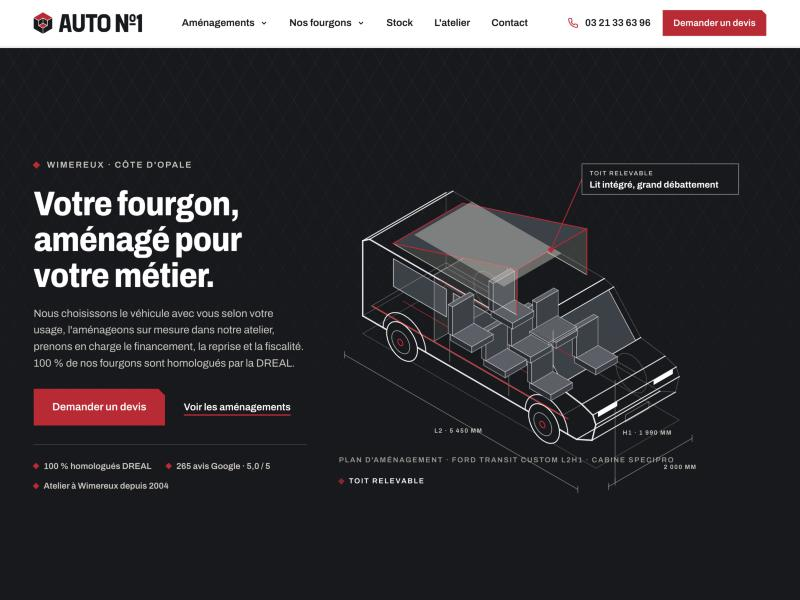
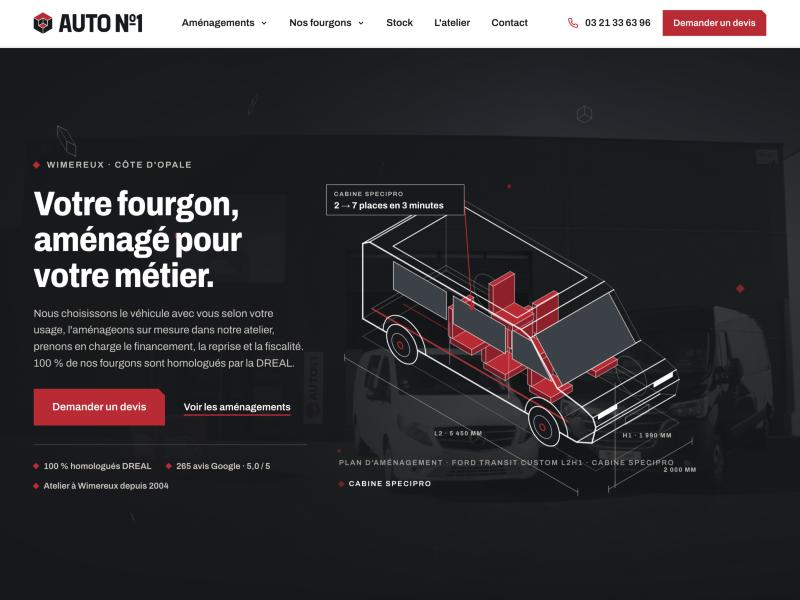
Hero : photo de fond sous voile sombre et éléments vectoriels flottants
- Photo de la façade du showroom en fond, désaturée, avec lent zoom
  (Ken Burns) et voile anthracite dégradé pour la lisibilité du texte
  et du plan
- Couche d'éléments flottants : cubes isométriques filaires en rotation
  3D, losanges rouges, repères, animés en continu et en parallaxe à la
  souris avec le plan et la photo ; cinq éléments conservés en mobile
- Léger flottement du plan ; mouvements désactivés si l'utilisateur
  préfère les animations réduites

diff --git a/site/index.html b/site/index.html
@@ -19,7 +19,7 @@
 <link rel="apple-touch-icon" href="assets/brand/apple-touch-icon.png">
 <link rel="preload" href="assets/fonts/Archivo-var-normal-latin.woff2" as="font" type="font/woff2" crossorigin>
 <link rel="stylesheet" href="assets/fonts/fonts.css?v=d4d25ccd">
-<link rel="stylesheet" href="assets/css/main.css?v=c59105d9">
+<link rel="stylesheet" href="assets/css/main.css?v=00c5aabd">
 <script type="application/ld+json">
 {
   "@context": "https://schema.org",
@@ -114,7 +114,22 @@
 
 <!-- ===================== HERO ===================== -->
 <section class="hero hero--plan" id="top">
-  <div class="trame"></div>
+  <div class="hero__bg" aria-hidden="true"><img src="assets/img/showroom-facade.jpg" alt="" width="1622" height="1080" fetchpriority="high"></div>
+  <div class="hero__shade" aria-hidden="true"></div>
+  <div class="hero__float" id="hero-float" aria-hidden="true">
+    <span class="flt" style="--s:64px;--o:0.28;left:6%;top:14%;--d:13s;--r:34s;--delay:0s"><svg viewBox="0 0 48 48" fill="none" stroke="currentColor" stroke-width="1.3" stroke-linejoin="miter"><path d="M24 4 L41 14 L41 34 L24 44 L7 34 L7 14 Z M7 14 L24 24 L41 14 M24 24 V44"/></svg></span>
+    <span class="flt" style="--s:38px;--o:0.22;left:30%;top:8%;--d:11s;--r:28s;--delay:-4s"><svg viewBox="0 0 48 48" fill="none" stroke="currentColor" stroke-width="1.3" stroke-linejoin="miter"><path d="M24 4 L41 14 L41 34 L24 44 L7 34 L7 14 Z M7 14 L24 24 L41 14 M24 24 V44"/></svg></span>
+    <span class="flt" style="--s:90px;--o:0.16;left:84%;top:70%;--d:16s;--r:46s;--delay:-7s"><svg viewBox="0 0 48 48" fill="none" stroke="currentColor" stroke-width="1.3" stroke-linejoin="miter"><path d="M24 4 L41 14 L41 34 L24 44 L7 34 L7 14 Z M7 14 L24 24 L41 14 M24 24 V44"/></svg></span>
+    <span class="flt" style="--s:46px;--o:0.26;left:52%;top:88%;--d:12s;--r:31s;--delay:-2s"><svg viewBox="0 0 48 48" fill="none" stroke="currentColor" stroke-width="1.3" stroke-linejoin="miter"><path d="M24 4 L41 14 L41 34 L24 44 L7 34 L7 14 Z M7 14 L24 24 L41 14 M24 24 V44"/></svg></span>
+    <span class="flt" style="--s:30px;--o:0.2;left:70%;top:10%;--d:10s;--r:24s;--delay:-6s"><svg viewBox="0 0 48 48" fill="none" stroke="currentColor" stroke-width="1.3" stroke-linejoin="miter"><path d="M24 4 L41 14 L41 34 L24 44 L7 34 L7 14 Z M7 14 L24 24 L41 14 M24 24 V44"/></svg></span>
+    <span class="flt flt--red" style="--s:14px;--o:0.7;left:22%;top:32%;--d:9s;--r:0s;--delay:-3s"><svg viewBox="0 0 48 48" fill="currentColor"><path d="M24 6 L42 24 L24 42 L6 24 Z"/></svg></span>
+    <span class="flt flt--red" style="--s:10px;--o:0.55;left:62%;top:24%;--d:8s;--r:0s;--delay:-5s"><svg viewBox="0 0 48 48" fill="currentColor"><path d="M24 6 L42 24 L24 42 L6 24 Z"/></svg></span>
+    <span class="flt flt--red" style="--s:16px;--o:0.6;left:90%;top:42%;--d:10s;--r:0s;--delay:-1s"><svg viewBox="0 0 48 48" fill="currentColor"><path d="M24 6 L42 24 L24 42 L6 24 Z"/></svg></span>
+    <span class="flt flt--red" style="--s:9px;--o:0.5;left:42%;top:74%;--d:7s;--r:0s;--delay:-8s"><svg viewBox="0 0 48 48" fill="currentColor"><path d="M24 6 L42 24 L24 42 L6 24 Z"/></svg></span>
+    <span class="flt" style="--s:28px;--o:0.22;left:16%;top:80%;--d:12s;--r:60s;--delay:-5s"><svg viewBox="0 0 48 48" fill="none" stroke="currentColor" stroke-width="1.3"><path d="M24 8 V40 M8 24 H40"/><circle cx="24" cy="24" r="9"/></svg></span>
+    <span class="flt" style="--s:22px;--o:0.2;left:74%;top:56%;--d:14s;--r:52s;--delay:-9s"><svg viewBox="0 0 48 48" fill="none" stroke="currentColor" stroke-width="1.3"><path d="M24 8 V40 M8 24 H40"/><circle cx="24" cy="24" r="9"/></svg></span>
+    <span class="flt" style="--s:26px;--o:0.18;left:46%;top:20%;--d:9s;--r:22s;--delay:-1.5s"><svg viewBox="0 0 48 48" fill="none" stroke="currentColor" stroke-width="1.3" stroke-linejoin="miter"><path d="M24 4 L41 14 L41 34 L24 44 L7 34 L7 14 Z M7 14 L24 24 L41 14 M24 24 V44"/></svg></span>
+  </div>
   <div class="container hero__plan-grid">
     <div class="hero__copy">
       <span class="eyebrow">Wimereux · Côte d'Opale</span>
@@ -668,6 +683,6 @@
 
 <script src="assets/vendor/gsap.min.js"></script>
 <script src="assets/vendor/ScrollTrigger.min.js"></script>
-<script src="assets/js/main.js?v=80d35068"></script>
+<script src="assets/js/main.js?v=2a5bd6b5"></script>
 </body>
 </html>

diff --git a/src/pages/index.html b/src/pages/index.html
@@ -11,7 +11,22 @@ ogimg: transit-sport-gris-sieges.jpg
 
 <!-- ===================== HERO ===================== -->
 <section class="hero hero--plan" id="top">
-  <div class="trame"></div>
+  <div class="hero__bg" aria-hidden="true"><img src="assets/img/showroom-facade.jpg" alt="" width="1622" height="1080" fetchpriority="high"></div>
+  <div class="hero__shade" aria-hidden="true"></div>
+  <div class="hero__float" id="hero-float" aria-hidden="true">
+    <span class="flt" style="--s:64px;--o:0.28;left:6%;top:14%;--d:13s;--r:34s;--delay:0s"><svg viewBox="0 0 48 48" fill="none" stroke="currentColor" stroke-width="1.3" stroke-linejoin="miter"><path d="M24 4 L41 14 L41 34 L24 44 L7 34 L7 14 Z M7 14 L24 24 L41 14 M24 24 V44"/></svg></span>
+    <span class="flt" style="--s:38px;--o:0.22;left:30%;top:8%;--d:11s;--r:28s;--delay:-4s"><svg viewBox="0 0 48 48" fill="none" stroke="currentColor" stroke-width="1.3" stroke-linejoin="miter"><path d="M24 4 L41 14 L41 34 L24 44 L7 34 L7 14 Z M7 14 L24 24 L41 14 M24 24 V44"/></svg></span>
+    <span class="flt" style="--s:90px;--o:0.16;left:84%;top:70%;--d:16s;--r:46s;--delay:-7s"><svg viewBox="0 0 48 48" fill="none" stroke="currentColor" stroke-width="1.3" stroke-linejoin="miter"><path d="M24 4 L41 14 L41 34 L24 44 L7 34 L7 14 Z M7 14 L24 24 L41 14 M24 24 V44"/></svg></span>
+    <span class="flt" style="--s:46px;--o:0.26;left:52%;top:88%;--d:12s;--r:31s;--delay:-2s"><svg viewBox="0 0 48 48" fill="none" stroke="currentColor" stroke-width="1.3" stroke-linejoin="miter"><path d="M24 4 L41 14 L41 34 L24 44 L7 34 L7 14 Z M7 14 L24 24 L41 14 M24 24 V44"/></svg></span>
+    <span class="flt" style="--s:30px;--o:0.2;left:70%;top:10%;--d:10s;--r:24s;--delay:-6s"><svg viewBox="0 0 48 48" fill="none" stroke="currentColor" stroke-width="1.3" stroke-linejoin="miter"><path d="M24 4 L41 14 L41 34 L24 44 L7 34 L7 14 Z M7 14 L24 24 L41 14 M24 24 V44"/></svg></span>
+    <span class="flt flt--red" style="--s:14px;--o:0.7;left:22%;top:32%;--d:9s;--r:0s;--delay:-3s"><svg viewBox="0 0 48 48" fill="currentColor"><path d="M24 6 L42 24 L24 42 L6 24 Z"/></svg></span>
+    <span class="flt flt--red" style="--s:10px;--o:0.55;left:62%;top:24%;--d:8s;--r:0s;--delay:-5s"><svg viewBox="0 0 48 48" fill="currentColor"><path d="M24 6 L42 24 L24 42 L6 24 Z"/></svg></span>
+    <span class="flt flt--red" style="--s:16px;--o:0.6;left:90%;top:42%;--d:10s;--r:0s;--delay:-1s"><svg viewBox="0 0 48 48" fill="currentColor"><path d="M24 6 L42 24 L24 42 L6 24 Z"/></svg></span>
+    <span class="flt flt--red" style="--s:9px;--o:0.5;left:42%;top:74%;--d:7s;--r:0s;--delay:-8s"><svg viewBox="0 0 48 48" fill="currentColor"><path d="M24 6 L42 24 L24 42 L6 24 Z"/></svg></span>
+    <span class="flt" style="--s:28px;--o:0.22;left:16%;top:80%;--d:12s;--r:60s;--delay:-5s"><svg viewBox="0 0 48 48" fill="none" stroke="currentColor" stroke-width="1.3"><path d="M24 8 V40 M8 24 H40"/><circle cx="24" cy="24" r="9"/></svg></span>
+    <span class="flt" style="--s:22px;--o:0.2;left:74%;top:56%;--d:14s;--r:52s;--delay:-9s"><svg viewBox="0 0 48 48" fill="none" stroke="currentColor" stroke-width="1.3"><path d="M24 8 V40 M8 24 H40"/><circle cx="24" cy="24" r="9"/></svg></span>
+    <span class="flt" style="--s:26px;--o:0.18;left:46%;top:20%;--d:9s;--r:22s;--delay:-1.5s"><svg viewBox="0 0 48 48" fill="none" stroke="currentColor" stroke-width="1.3" stroke-linejoin="miter"><path d="M24 4 L41 14 L41 34 L24 44 L7 34 L7 14 Z M7 14 L24 24 L41 14 M24 24 V44"/></svg></span>
+  </div>
   <div class="container hero__plan-grid">
     <div class="hero__copy">
       <span class="eyebrow">Wimereux · Côte d'Opale</span>

diff --git a/site/assets/css/main.css b/site/assets/css/main.css
@@ -869,3 +869,23 @@ input[type=range]::-webkit-slider-thumb{-webkit-appearance:none;width:20px;heigh
 .config__visual .plan-stage{padding:8% 6% 12%}
 .transform__visual .plan-stage{padding:10% 6% 14%}
 @media (max-width:1000px){.transform__visual .plan-stage{padding:6% 4% 14%}}
+
+/* ---------- Hero : photo de fond, voile, éléments flottants ---------- */
+.hero__bg{position:absolute;inset:0;overflow:hidden;z-index:0}
+.hero__bg img{width:100%;height:100%;object-fit:cover;object-position:62% 55%;filter:saturate(.55) contrast(1.05) brightness(.9);transform-origin:62% 55%;animation:kenburns 28s ease-in-out infinite alternate}
+@keyframes kenburns{from{transform:scale(1.02) translate(0,0)}to{transform:scale(1.1) translate(-1.5%,-1%)}}
+.hero__shade{position:absolute;inset:0;z-index:0;background:linear-gradient(90deg,rgba(23,25,28,.98) 0%,rgba(23,25,28,.92) 36%,rgba(23,25,28,.76) 68%,rgba(23,25,28,.86) 100%),linear-gradient(180deg,rgba(23,25,28,.8) 0%,rgba(23,25,28,.15) 38%,rgba(23,25,28,.35) 70%,rgba(23,25,28,.98) 100%)}
+.hero__float{position:absolute;inset:0;z-index:1;pointer-events:none;perspective:900px;will-change:transform}
+.flt{position:absolute;width:var(--s);height:var(--s);color:rgba(255,255,255,.9);opacity:var(--o,.3);animation:flt var(--d,12s) ease-in-out infinite alternate;animation-delay:var(--delay,0s);transform-style:preserve-3d}
+.flt svg{width:100%;height:100%;animation:spin3d var(--r,30s) linear infinite;animation-delay:var(--delay,0s);transform-style:preserve-3d;backface-visibility:visible}
+.flt--red{color:var(--rouge)}
+.flt--red svg{animation:spinflat 6s ease-in-out infinite alternate;animation-delay:var(--delay,0s)}
+@keyframes flt{from{transform:translate3d(0,-14px,0)}to{transform:translate3d(10px,16px,40px)}}
+@keyframes spin3d{from{transform:rotateX(0deg) rotateY(0deg)}to{transform:rotateX(360deg) rotateY(360deg)}}
+@keyframes spinflat{from{transform:rotate(0deg) scale(.9)}to{transform:rotate(180deg) scale(1.1)}}
+.hero--plan .hero__plan-grid{z-index:2}
+.hero__plan{animation:planfloat 7s ease-in-out infinite alternate}
+@keyframes planfloat{from{transform:translateY(-6px)}to{transform:translateY(6px)}}
+.hero--plan .trame{display:none}
+@media (prefers-reduced-motion:reduce){.hero__bg img,.flt,.flt svg,.hero__plan{animation:none}}
+@media (max-width:1000px){.hero__shade{background:linear-gradient(180deg,rgba(23,25,28,.9) 0%,rgba(23,25,28,.72) 35%,rgba(23,25,28,.96) 60%,rgba(23,25,28,1) 100%)}.flt{display:none}.flt:nth-child(-n+5){display:block}}

diff --git a/site/assets/js/main.js b/site/assets/js/main.js
@@ -102,8 +102,9 @@
       // Parallaxe souris : le plan flotte légèrement, la trame bouge moins
       const stage = $('.hero--plan');
       if (stage && !isTouch) {
-        stage.addEventListener('pointermove', e => { const r = stage.getBoundingClientRect(); const nx = ((e.clientX - r.left) / r.width - 0.5) * 2, ny = ((e.clientY - r.top) / r.height - 0.5) * 2; gsap.to(plan, { x: nx * 12, y: ny * 8, rotation: nx * 0.4, duration: 0.9, ease: 'power2.out' }); });
-        stage.addEventListener('pointerleave', () => gsap.to(plan, { x: 0, y: 0, rotation: 0, duration: 1.2, ease: 'power2.out' }));
+        const floatLayer = $('#hero-float'), bg = $('.hero__bg img');
+        stage.addEventListener('pointermove', e => { const r = stage.getBoundingClientRect(); const nx = ((e.clientX - r.left) / r.width - 0.5) * 2, ny = ((e.clientY - r.top) / r.height - 0.5) * 2; gsap.to(plan, { x: nx * 12, y: ny * 8, rotation: nx * 0.4, duration: 0.9, ease: 'power2.out' }); if (floatLayer) gsap.to(floatLayer, { x: nx * -26, y: ny * -18, duration: 1.1, ease: 'power2.out' }); if (bg) gsap.to(bg, { xPercent: nx * -1.2, yPercent: ny * -0.8, duration: 1.4, ease: 'power2.out' }); });
+        stage.addEventListener('pointerleave', () => { gsap.to(plan, { x: 0, y: 0, rotation: 0, duration: 1.2, ease: 'power2.out' }); if (floatLayer) gsap.to(floatLayer, { x: 0, y: 0, duration: 1.4 }); if (bg) gsap.to(bg, { xPercent: 0, yPercent: 0, duration: 1.6 }); });
       }
     }
   }

diff --git a/site/amenagements/4x4.html b/site/amenagements/4x4.html
@@ -19,7 +19,7 @@
 <link rel="apple-touch-icon" href="../assets/brand/apple-touch-icon.png">
 <link rel="preload" href="../assets/fonts/Archivo-var-normal-latin.woff2" as="font" type="font/woff2" crossorigin>
 <link rel="stylesheet" href="../assets/fonts/fonts.css?v=d4d25ccd">
-<link rel="stylesheet" href="../assets/css/main.css?v=c59105d9">
+<link rel="stylesheet" href="../assets/css/main.css?v=00c5aabd">
 <script type="application/ld+json">
 {
   "@context": "https://schema.org",
@@ -269,6 +269,6 @@
 
 <script src="../assets/vendor/gsap.min.js"></script>
 <script src="../assets/vendor/ScrollTrigger.min.js"></script>
-<script src="../assets/js/main.js?v=80d35068"></script>
+<script src="../assets/js/main.js?v=2a5bd6b5"></script>
 </body>
 </html>

diff --git a/site/amenagements/cabine-approfondie.html b/site/amenagements/cabine-approfondie.html
@@ -19,7 +19,7 @@
 <link rel="apple-touch-icon" href="../assets/brand/apple-touch-icon.png">
 <link rel="preload" href="../assets/fonts/Archivo-var-normal-latin.woff2" as="font" type="font/woff2" crossorigin>
 <link rel="stylesheet" href="../assets/fonts/fonts.css?v=d4d25ccd">
-<link rel="stylesheet" href="../assets/css/main.css?v=c59105d9">
+<link rel="stylesheet" href="../assets/css/main.css?v=00c5aabd">
 <script type="application/ld+json">
 {
   "@context": "https://schema.org",
@@ -292,6 +292,6 @@
 
 <script src="../assets/vendor/gsap.min.js"></script>
 <script src="../assets/vendor/ScrollTrigger.min.js"></script>
-<script src="../assets/js/main.js?v=80d35068"></script>
+<script src="../assets/js/main.js?v=2a5bd6b5"></script>
 </body>
 </html>

diff --git a/site/amenagements/sur-mesure.html b/site/amenagements/sur-mesure.html
@@ -19,7 +19,7 @@
 <link rel="apple-touch-icon" href="../assets/brand/apple-touch-icon.png">
 <link rel="preload" href="../assets/fonts/Archivo-var-normal-latin.woff2" as="font" type="font/woff2" crossorigin>
 <link rel="stylesheet" href="../assets/fonts/fonts.css?v=d4d25ccd">
-<link rel="stylesheet" href="../assets/css/main.css?v=c59105d9">
+<link rel="stylesheet" href="../assets/css/main.css?v=00c5aabd">
 <script type="application/ld+json">
 {
   "@context": "https://schema.org",
@@ -288,6 +288,6 @@
 
 <script src="../assets/vendor/gsap.min.js"></script>
 <script src="../assets/vendor/ScrollTrigger.min.js"></script>
-<script src="../assets/js/main.js?v=80d35068"></script>
+<script src="../assets/js/main.js?v=2a5bd6b5"></script>
 </body>
 </html>

diff --git a/site/amenagements/toit-relevable.html b/site/amenagements/toit-relevable.html
@@ -19,7 +19,7 @@
 <link rel="apple-touch-icon" href="../assets/brand/apple-touch-icon.png">
 <link rel="preload" href="../assets/fonts/Archivo-var-normal-latin.woff2" as="font" type="font/woff2" crossorigin>
 <link rel="stylesheet" href="../assets/fonts/fonts.css?v=d4d25ccd">
-<link rel="stylesheet" href="../assets/css/main.css?v=c59105d9">
+<link rel="stylesheet" href="../assets/css/main.css?v=00c5aabd">
 <script type="application/ld+json">
 {
   "@context": "https://schema.org",
@@ -276,6 +276,6 @@
 
 <script src="../assets/vendor/gsap.min.js"></script>
 <script src="../assets/vendor/ScrollTrigger.min.js"></script>
-<script src="../assets/js/main.js?v=80d35068"></script>
+<script src="../assets/js/main.js?v=2a5bd6b5"></script>
 </body>
 </html>

diff --git a/site/vehicules/ford-transit-custom-cabine-approfondie.html b/site/vehicules/ford-transit-custom-cabine-approfondie.html
@@ -19,7 +19,7 @@
 <link rel="apple-touch-icon" href="../assets/brand/apple-touch-icon.png">
 <link rel="preload" href="../assets/fonts/Archivo-var-normal-latin.woff2" as="font" type="font/woff2" crossorigin>
 <link rel="stylesheet" href="../assets/fonts/fonts.css?v=d4d25ccd">
-<link rel="stylesheet" href="../assets/css/main.css?v=c59105d9">
+<link rel="stylesheet" href="../assets/css/main.css?v=00c5aabd">
 <script type="application/ld+json">
 {
   "@context": "https://schema.org",
@@ -349,6 +349,6 @@
 
 <script src="../assets/vendor/gsap.min.js"></script>
 <script src="../assets/vendor/ScrollTrigger.min.js"></script>
-<script src="../assets/js/main.js?v=80d35068"></script>
+<script src="../assets/js/main.js?v=2a5bd6b5"></script>
 </body>
 </html>

diff --git a/site/vehicules/ford-transit-custom.html b/site/vehicules/ford-transit-custom.html
@@ -19,7 +19,7 @@
 <link rel="apple-touch-icon" href="../assets/brand/apple-touch-icon.png">
 <link rel="preload" href="../assets/fonts/Archivo-var-normal-latin.woff2" as="font" type="font/woff2" crossorigin>
 <link rel="stylesheet" href="../assets/fonts/fonts.css?v=d4d25ccd">
-<link rel="stylesheet" href="../assets/css/main.css?v=c59105d9">
+<link rel="stylesheet" href="../assets/css/main.css?v=00c5aabd">
 <script type="application/ld+json">
 {
   "@context": "https://schema.org",
@@ -243,6 +243,6 @@
 
 <script src="../assets/vendor/gsap.min.js"></script>
 <script src="../assets/vendor/ScrollTrigger.min.js"></script>
-<script src="../assets/js/main.js?v=80d35068"></script>
+<script src="../assets/js/main.js?v=2a5bd6b5"></script>
 </body>
 </html>

diff --git a/site/vehicules/volkswagen-transporter.html b/site/vehicules/volkswagen-transporter.html
@@ -19,7 +19,7 @@
 <link rel="apple-touch-icon" href="../assets/brand/apple-touch-icon.png">
 <link rel="preload" href="../assets/fonts/Archivo-var-normal-latin.woff2" as="font" type="font/woff2" crossorigin>
 <link rel="stylesheet" href="../assets/fonts/fonts.css?v=d4d25ccd">
-<link rel="stylesheet" href="../assets/css/main.css?v=c59105d9">
+<link rel="stylesheet" href="../assets/css/main.css?v=00c5aabd">
 <script type="application/ld+json">
 {
   "@context": "https://schema.org",
@@ -239,6 +239,6 @@
 
 <script src="../assets/vendor/gsap.min.js"></script>
 <script src="../assets/vendor/ScrollTrigger.min.js"></script>
-<script src="../assets/js/main.js?v=80d35068"></script>
+<script src="../assets/js/main.js?v=2a5bd6b5"></script>
 </body>
 </html>

diff --git a/site/contact.html b/site/contact.html
@@ -19,7 +19,7 @@
 <link rel="apple-touch-icon" href="assets/brand/apple-touch-icon.png">
 <link rel="preload" href="assets/fonts/Archivo-var-normal-latin.woff2" as="font" type="font/woff2" crossorigin>
 <link rel="stylesheet" href="assets/fonts/fonts.css?v=d4d25ccd">
-<link rel="stylesheet" href="assets/css/main.css?v=c59105d9">
+<link rel="stylesheet" href="assets/css/main.css?v=00c5aabd">
 <script type="application/ld+json">
 {
   "@context": "https://schema.org",
@@ -239,6 +239,6 @@
 
 <script src="assets/vendor/gsap.min.js"></script>
 <script src="assets/vendor/ScrollTrigger.min.js"></script>
-<script src="assets/js/main.js?v=80d35068"></script>
+<script src="assets/js/main.js?v=2a5bd6b5"></script>
 </body>
 </html>
